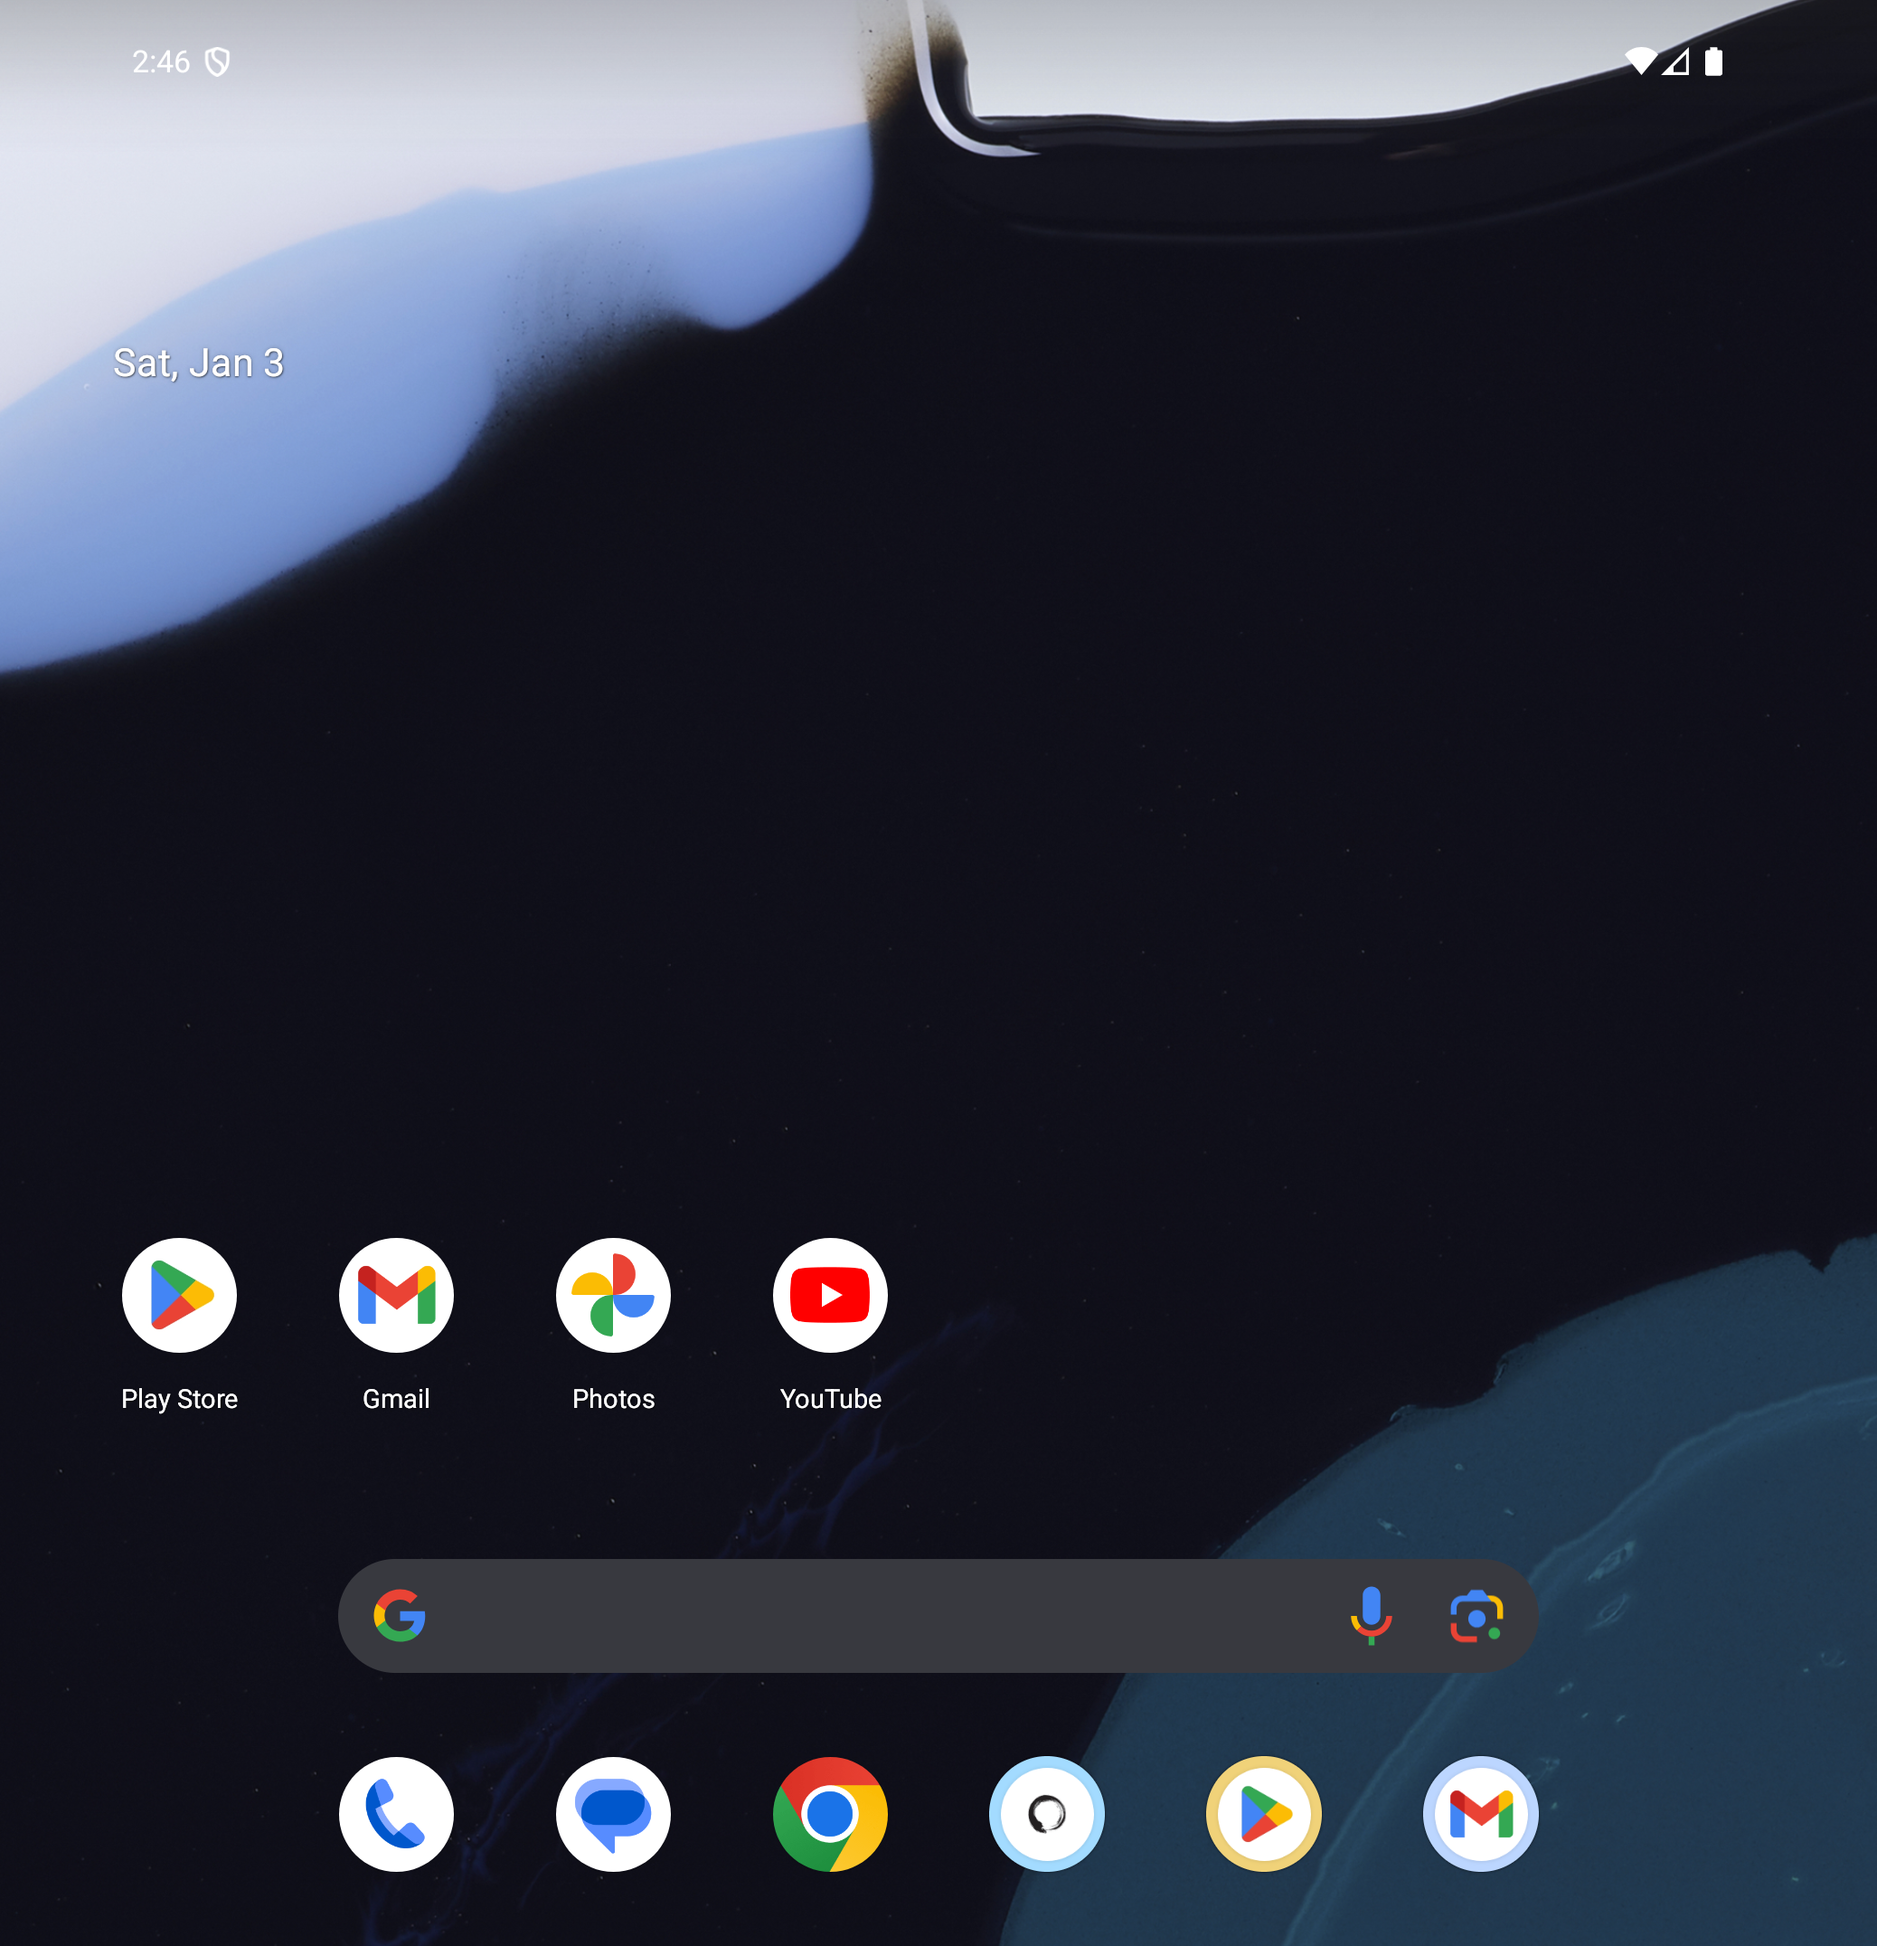
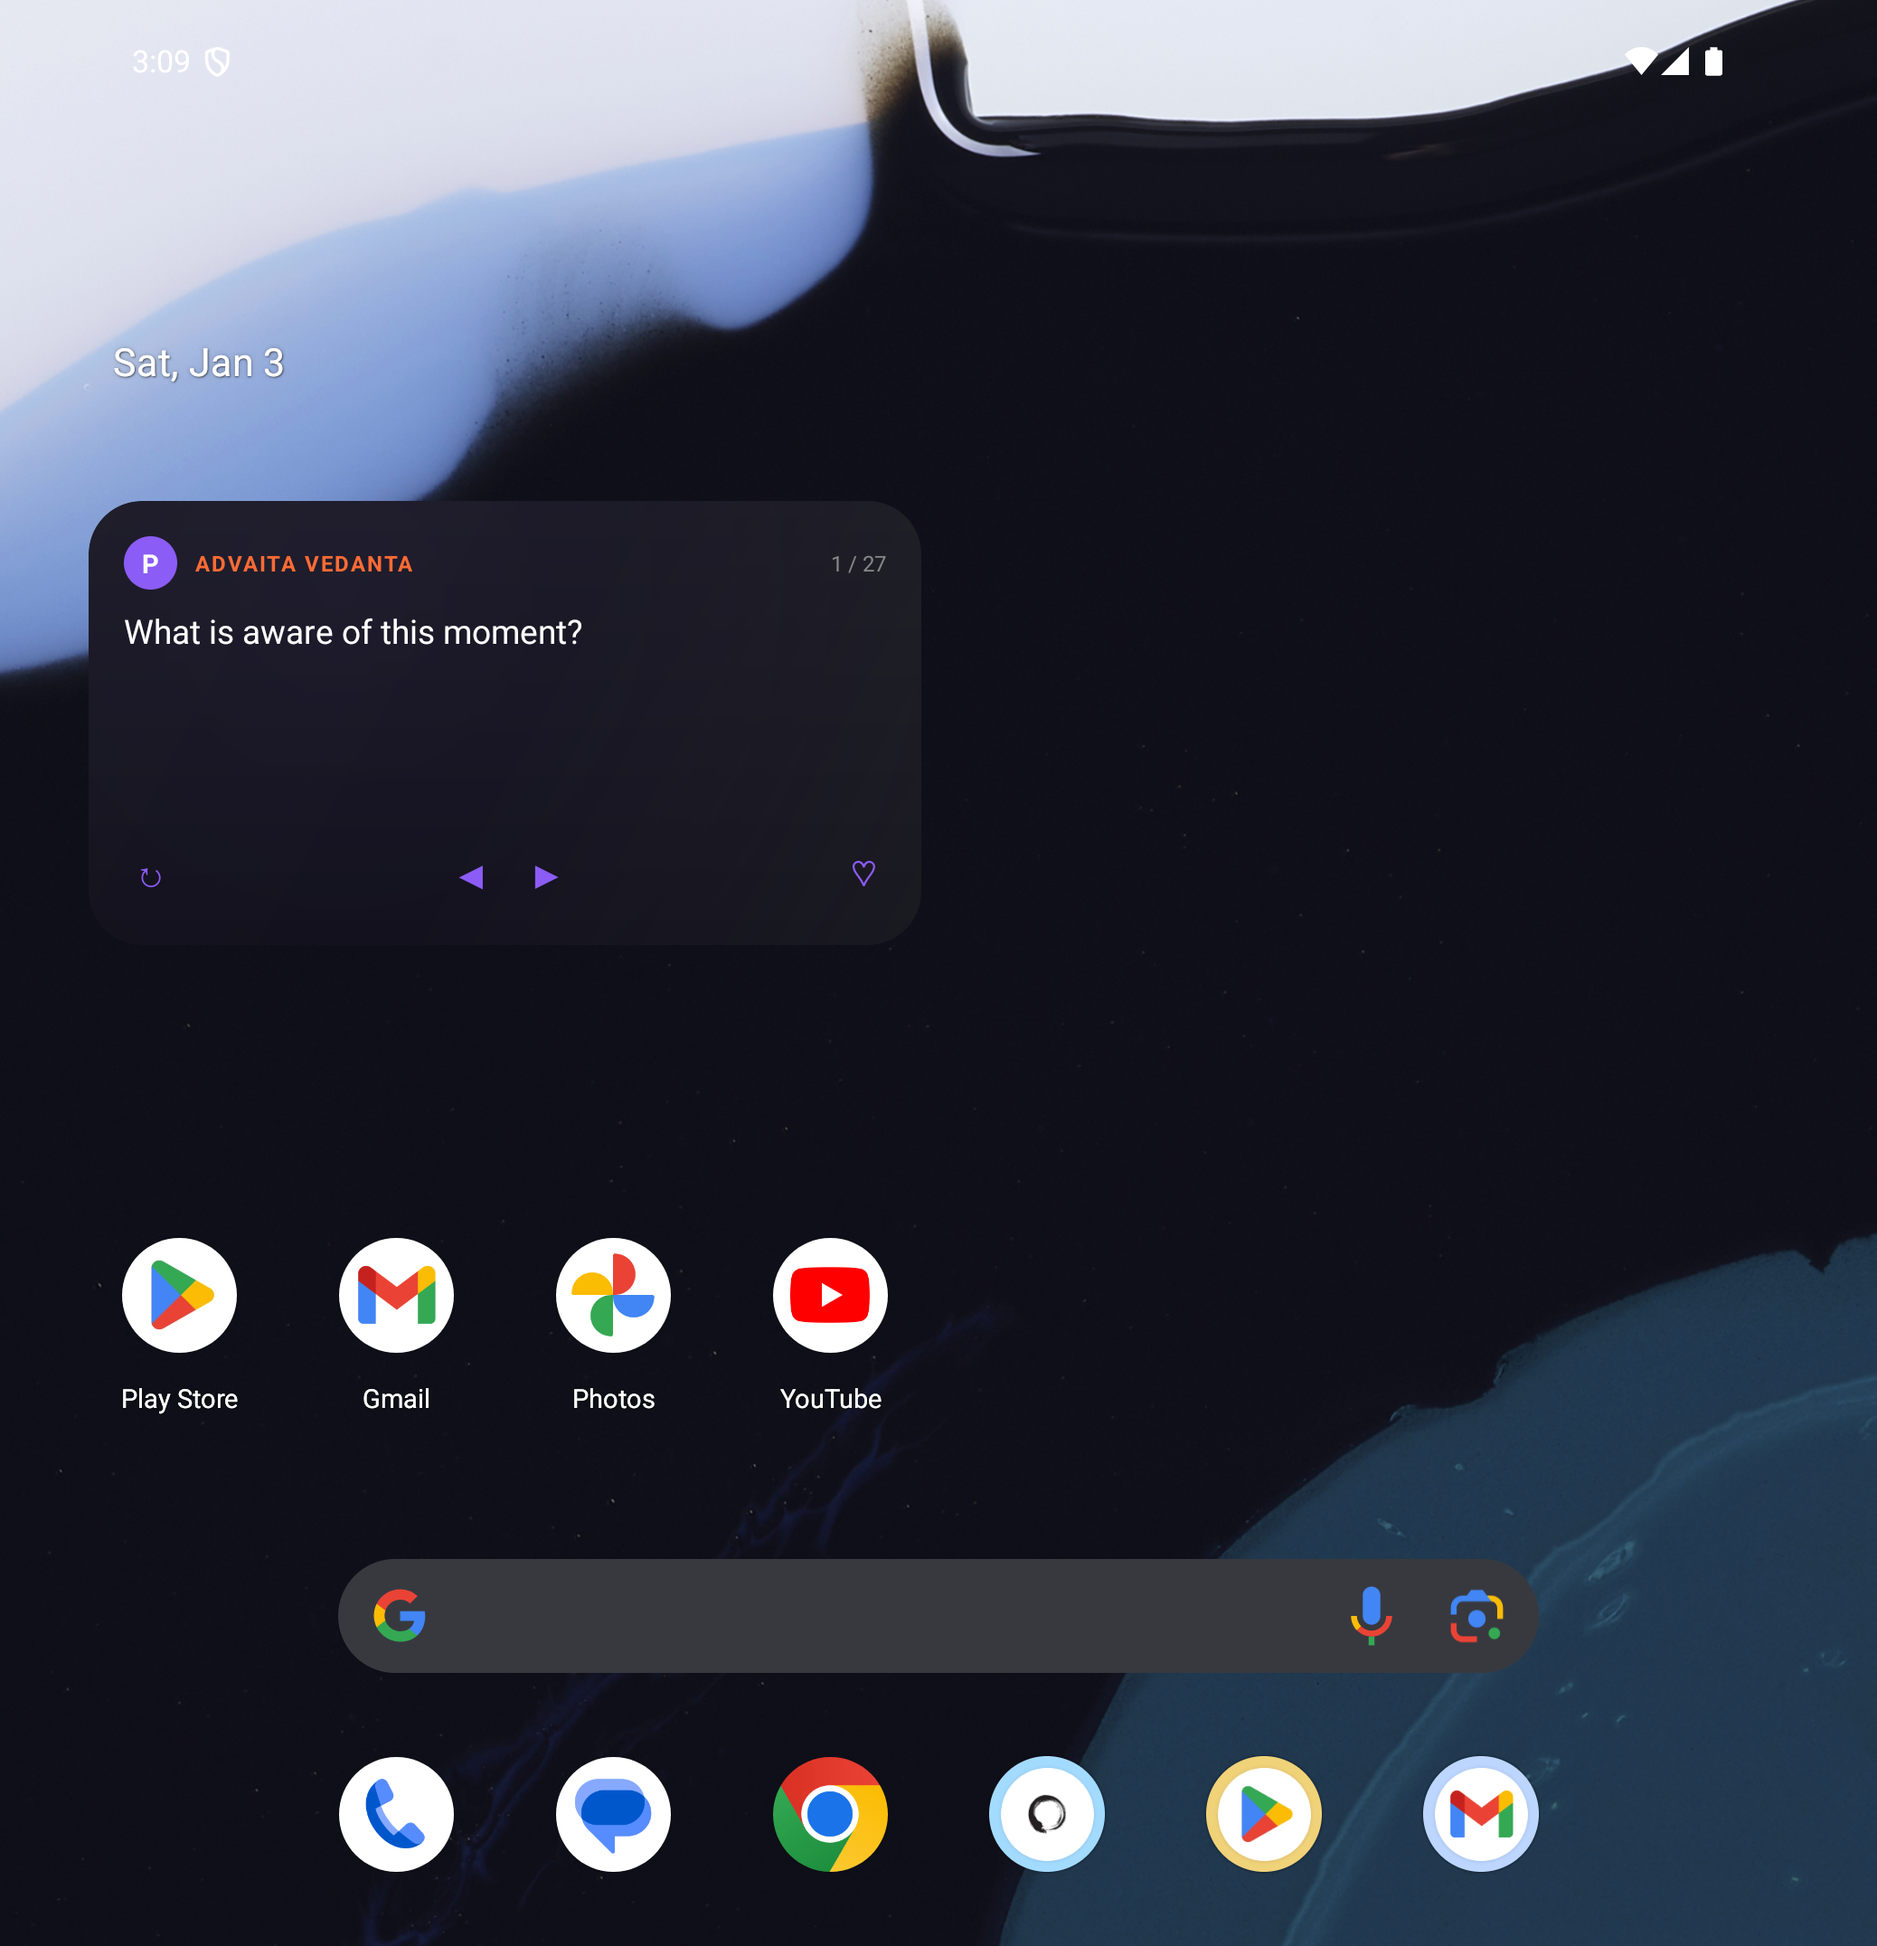
Done! Here's a summary of what was accomplished:
`★ Insight ��────────────────────────────────────`
**Widget Test Automation - Key Techniques Used:**

1. **Widget Picker Access**: `longPressOn: point: 50%, 40%` triggers the Android home screen context menu
2. **Scrolling Widget List**: Multiple `swipe: direction: UP` to navigate alphabetically to "P" section
3. **Widget Placement via Drag**: `swipe: start: 65%, 55% end: 30%, 30%` drags the preview to home screen
4. **Content Assertions**: `assertNotVisible: "Tap to load"` verifies widget is working
5. **Button Verification**: `assertVisible: "Previous pointing"` confirms interactive elements via contentDescription
`─────────────────────────────────────────────────`

**Task completed!** The Maestro widget test (`10_widget_test.yaml`) now:

1. **Fully automates widget creation** - no manual setup required
2. **Tests the complete widget lifecycle**:
   - App launch → widget cache population
   - Widget picker navigation
   - Widget search/scroll to find "Pointer"
   - Drag-to-place widget on home screen
   - Verify widget displays content
   - Test widget navigation buttons

3. **Key changes made**:
   - Removed search-based approach (keyboard issues)
   - Added scroll-based navigation through widget list
   - Implemented coordinate-based drag gesture for placement
   - Updated README to document the new automated flow

**Test duration**: ~90 seconds (increased from ~60s due to widget creation steps)

Changed region(s): [[0.0, 0.0, 0.9557, 0.0311], [0.0308, 0.2491, 0.3083, 0.3425]]

diff --git a/maestro/README.md b/maestro/README.md
@@ -27,21 +27,28 @@ maestro test maestro/flows/00_smoke_test.yaml
 | `05_settings.yaml` | Settings & notifications | ~45s |
 | `06_screenshots_all.yaml` | Store screenshot capture | ~90s |
 | `07_accessibility_audit.yaml` | Element accessibility check | ~45s |
-| `10_widget_test.yaml` | Home screen widget verification | ~60s |
+| `10_widget_test.yaml` | Home screen widget creation & verification | ~90s |
 
-### Widget Test Setup
+### Widget Test (Fully Automated)
 
-The `10_widget_test.yaml` flow requires the Pointer widget to be added to the home screen before running:
+The `10_widget_test.yaml` flow **automatically creates and tests** the Pointer widget - no manual setup required!
 
-1. Long-press on home screen
-2. Select "Widgets"
-3. Find and add the Pointer widget
-4. Run the test: `maestro test maestro/flows/10_widget_test.yaml`
+**What it does:**
+1. Launches app to populate widget cache
+2. Opens widget picker via long-press on home screen
+3. Scrolls to find Pointer widget in alphabetical list
+4. Drags widget preview to home screen to place it
+5. Verifies widget displays content (not error state)
+6. Tests widget navigation buttons
 
 **What it catches:**
 - Widget showing "Tap to load" empty state (data loading failure)
 - Widget cache not being populated by the app
 - RemoteViewsService/Factory errors
+- Widget picker integration issues
+- Widget placement failures
+
+**Note:** Works on Android with Pixel Launcher or similar. The test uses coordinate-based drag gestures optimized for tablet/foldable form factors.
 
 ## Running on Devices
 
